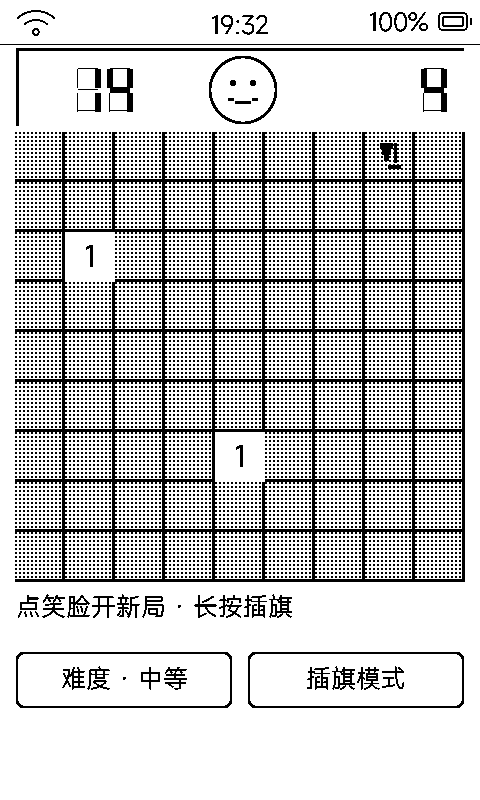
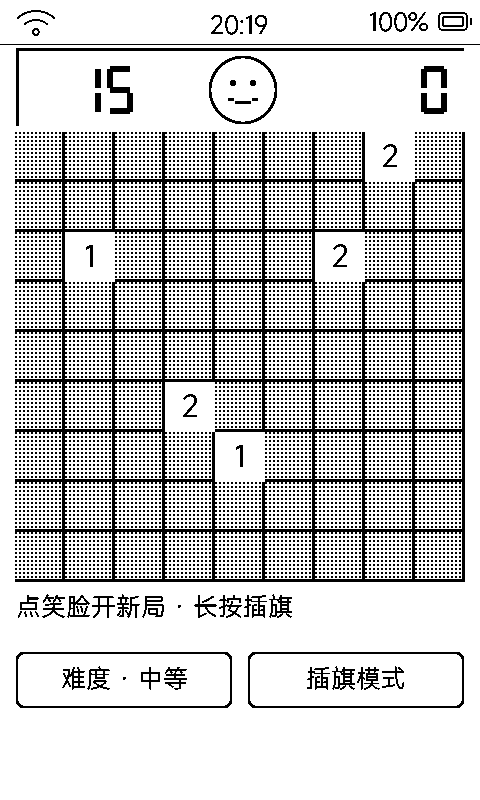
style(minesweeper): LED 计数器去掉熄灭段淡边,只显示点亮的段

diff --git a/tools/minesweeper_app/main/minesweeper_main.c b/tools/minesweeper_app/main/minesweeper_main.c
@@ -82,8 +82,8 @@ static int s_last_full_refresh = 0;
 #define FULL_REFRESH_EVERY 12
 
 // ---- 头部：LED 计数器 + 笑脸 ----
-static lv_obj_t *s_cnt_seg[3][7], *s_cnt_ghost[3][7];
-static lv_obj_t *s_tim_seg[3][7], *s_tim_ghost[3][7];
+static lv_obj_t *s_cnt_seg[3][7];
+static lv_obj_t *s_tim_seg[3][7];
 static lv_obj_t *s_face_btn = NULL;
 static lv_obj_t *s_eye_l, *s_eye_r, *s_mouth_mid, *s_mouth_l, *s_mouth_r, *s_shades;
 static lv_obj_t *s_diff_lbl = NULL;
@@ -290,8 +290,7 @@ static const uint8_t kSegMask[10] = {
 #define LED_H 48
 #define LED_S 6
 
-static void seg_make_digit(lv_obj_t *parent, int x, int y,
-                           lv_obj_t *out_seg[7], lv_obj_t *out_ghost[7]) {
+static void seg_make_digit(lv_obj_t *parent, int x, int y, lv_obj_t *out_seg[7]) {
     const int gap = 2;
     const int half = (LED_H - LED_S) / 2 - gap;
     struct {
@@ -314,46 +313,22 @@ static void seg_make_digit(lv_obj_t *parent, int x, int y,
         lv_obj_set_style_bg_opa(on, LV_OPA_COVER, 0);
         lv_obj_clear_flag(on, LV_OBJ_FLAG_CLICKABLE | LV_OBJ_FLAG_SCROLLABLE);
         out_seg[i] = on;
-
-        // 未点亮的段：段中央 1px 细线（粗了整只数字看着像空盒子）
-        lv_obj_t *ghost = lv_obj_create(parent);
-        lv_obj_remove_style_all(ghost);
-        const int thin = 1;
-        if (r[i].w > r[i].h) {
-            lv_obj_set_pos(ghost, r[i].x, r[i].y + (r[i].h - thin) / 2);
-            lv_obj_set_size(ghost, r[i].w, thin);
-        } else {
-            lv_obj_set_pos(ghost, r[i].x + (r[i].w - thin) / 2, r[i].y);
-            lv_obj_set_size(ghost, thin, r[i].h);
-        }
-        lv_obj_set_style_bg_color(ghost, lv_color_black(), 0);
-        lv_obj_set_style_bg_opa(ghost, LV_OPA_COVER, 0);
-        lv_obj_clear_flag(ghost, LV_OBJ_FLAG_CLICKABLE | LV_OBJ_FLAG_SCROLLABLE);
-        out_ghost[i] = ghost;
     }
 }
 
-// ch: '0'..'9' / ' ' 全灭（ghost 也藏——白底上空位的 ghost 远看像 0） / '-' 只有 g 段
-static void seg_set_char(lv_obj_t *seg[7], lv_obj_t *ghost[7], char ch) {
+// ch: '0'..'9' / ' ' 全灭 / '-' 只有 g 段。只画点亮的段,熄灭段不显示
+static void seg_set_char(lv_obj_t *seg[7], char ch) {
     uint8_t mask = 0;
     if (ch >= '0' && ch <= '9') mask = kSegMask[ch - '0'];
     else if (ch == '-') mask = 0x40;
     for (int i = 0; i < 7; ++i) {
         if (seg[i] == NULL) continue;
-        if (mask & (1u << i)) {
-            lv_obj_clear_flag(seg[i], LV_OBJ_FLAG_HIDDEN);
-            lv_obj_add_flag(ghost[i], LV_OBJ_FLAG_HIDDEN);
-        } else if (ch == ' ') {
-            lv_obj_add_flag(seg[i], LV_OBJ_FLAG_HIDDEN);
-            lv_obj_add_flag(ghost[i], LV_OBJ_FLAG_HIDDEN);
-        } else {
-            lv_obj_add_flag(seg[i], LV_OBJ_FLAG_HIDDEN);
-            lv_obj_clear_flag(ghost[i], LV_OBJ_FLAG_HIDDEN);
-        }
+        if (mask & (1u << i)) lv_obj_clear_flag(seg[i], LV_OBJ_FLAG_HIDDEN);
+        else lv_obj_add_flag(seg[i], LV_OBJ_FLAG_HIDDEN);
     }
 }
 
-static void led_show(lv_obj_t *seg[3][7], lv_obj_t *ghost[3][7], int value) {
+static void led_show(lv_obj_t *seg[3][7], int value) {
     char buf[4];
     if (value < 0) {
         if (value < -99) value = -99;
@@ -362,7 +337,7 @@ static void led_show(lv_obj_t *seg[3][7], lv_obj_t *ghost[3][7], int value) {
         if (value > 999) value = 999;
         snprintf(buf, sizeof(buf), "%3d", value);
     }
-    for (int i = 0; i < 3; ++i) seg_set_char(seg[i], ghost[i], buf[i]);
+    for (int i = 0; i < 3; ++i) seg_set_char(seg[i], buf[i]);
 }
 
 // ================= 笑脸 =================
@@ -571,8 +546,8 @@ static void render_all(void) {
     for (int r = 0; r < N; ++r) {
         for (int c = 0; c < N; ++c) render_cell(r, c);
     }
-    led_show(s_cnt_seg, s_cnt_ghost, mine_total() - s_flags);
-    led_show(s_tim_seg, s_tim_ghost, elapsed_seconds());
+    led_show(s_cnt_seg, mine_total() - s_flags);
+    led_show(s_tim_seg, elapsed_seconds());
     sync_face();
     if (s_diff_lbl != NULL) {
         char buf[32];
@@ -780,9 +755,7 @@ static void on_screen_deleted(lv_event_t *e) {
     memset(s_flag_obj, 0, sizeof(s_flag_obj));
     memset(s_mine_obj, 0, sizeof(s_mine_obj));
     memset(s_cnt_seg, 0, sizeof(s_cnt_seg));
-    memset(s_cnt_ghost, 0, sizeof(s_cnt_ghost));
     memset(s_tim_seg, 0, sizeof(s_tim_seg));
-    memset(s_tim_ghost, 0, sizeof(s_tim_ghost));
 }
 
 static void *minesweeper_create(void) {
@@ -811,8 +784,8 @@ static void *minesweeper_create(void) {
     lv_obj_clear_flag(panel, LV_OBJ_FLAG_SCROLLABLE | LV_OBJ_FLAG_CLICKABLE);
 
     for (int i = 0; i < 3; ++i) {
-        seg_make_digit(panel, 24 + i * (LED_W + 6), 15, s_cnt_seg[i], s_cnt_ghost[i]);
-        seg_make_digit(panel, 338 + i * (LED_W + 6), 15, s_tim_seg[i], s_tim_ghost[i]);
+        seg_make_digit(panel, 24 + i * (LED_W + 6), 15, s_cnt_seg[i]);
+        seg_make_digit(panel, 338 + i * (LED_W + 6), 15, s_tim_seg[i]);
     }
 
     // 笑脸按钮（点击 = 新游戏）
